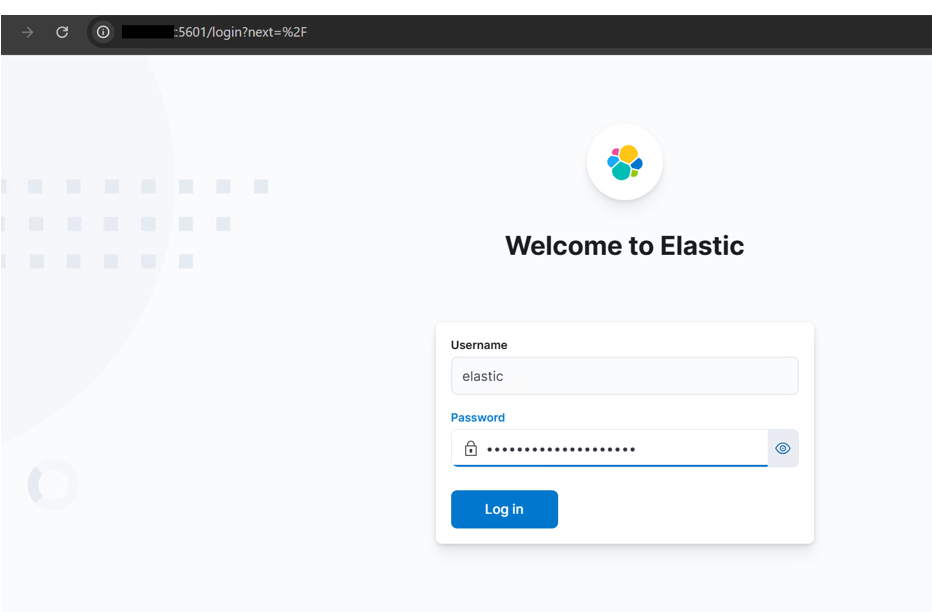
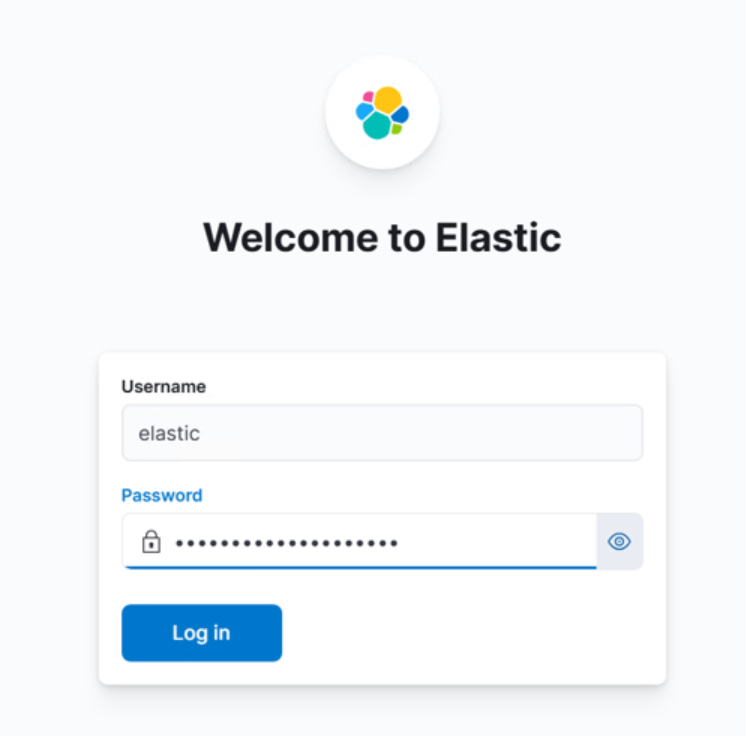
REL-1125669 cropping images

diff --git a/docs/elasticsearch_setup_development.md b/docs/elasticsearch_setup_development.md
@@ -261,7 +261,7 @@ If you download a .zip or other file from the internet, Windows may block the fi
 
      ![Kibana restart verification](../resources/troubleshooting-images/kibanarerun.png)
 
-> [!NOTE]
+> [!IMPORTANT]
 After Kibana has restarted, open a browser and go to `http://<hostname_or_ip>:5601`.
 Log in using the `elastic` username and the password you generated earlier.
 This verifies that Kibana is running and your credentials are working.
@@ -365,7 +365,9 @@ Copy and save `id` and `api_key` values immediately and store them securely acco
 
 - Navigate to the apm-server folder (e.g., `C:\apm-server-8.17.3-windows-x86_64`) and open the `apm-server.yml` file using a text editor.
 
-- Open the `apm-server.yml` file in a text editor and update it to match the following sample configuration. Replace the placeholder values (`<apm-server-hostname_or_ip>`, `<elasticsearch-hostname_or_ip>`, `<id>`, `<api-key>`) as needed for your environment.
+- Open the `apm-server.yml` file in a text editor and update it to match the following sample configuration. 
+
+- Replace the placeholder values (`<apm-server-hostname_or_ip>`, `<elasticsearch-hostname_or_ip>`, `<id>`, `<api-key>`) as needed for your environment.
 
 - Below is a sample configuration
 
